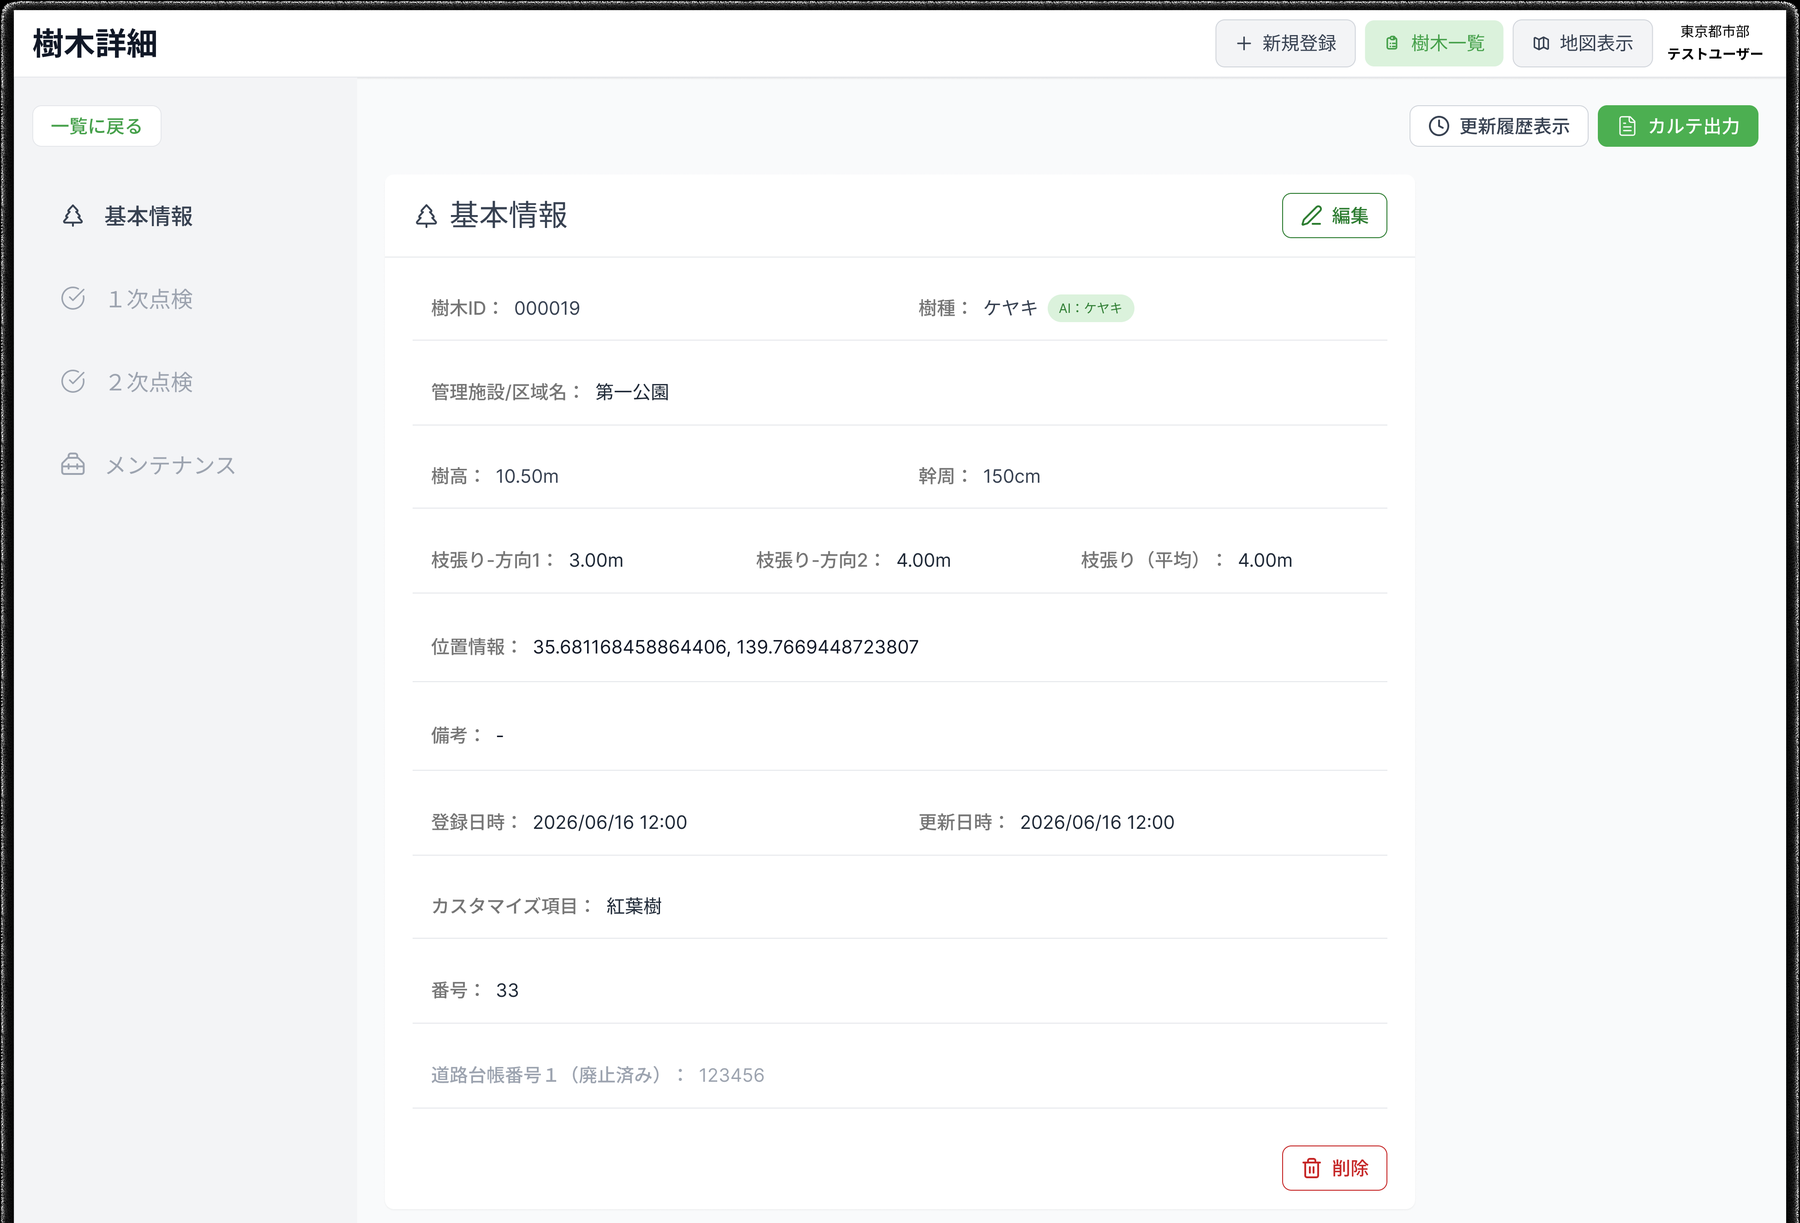
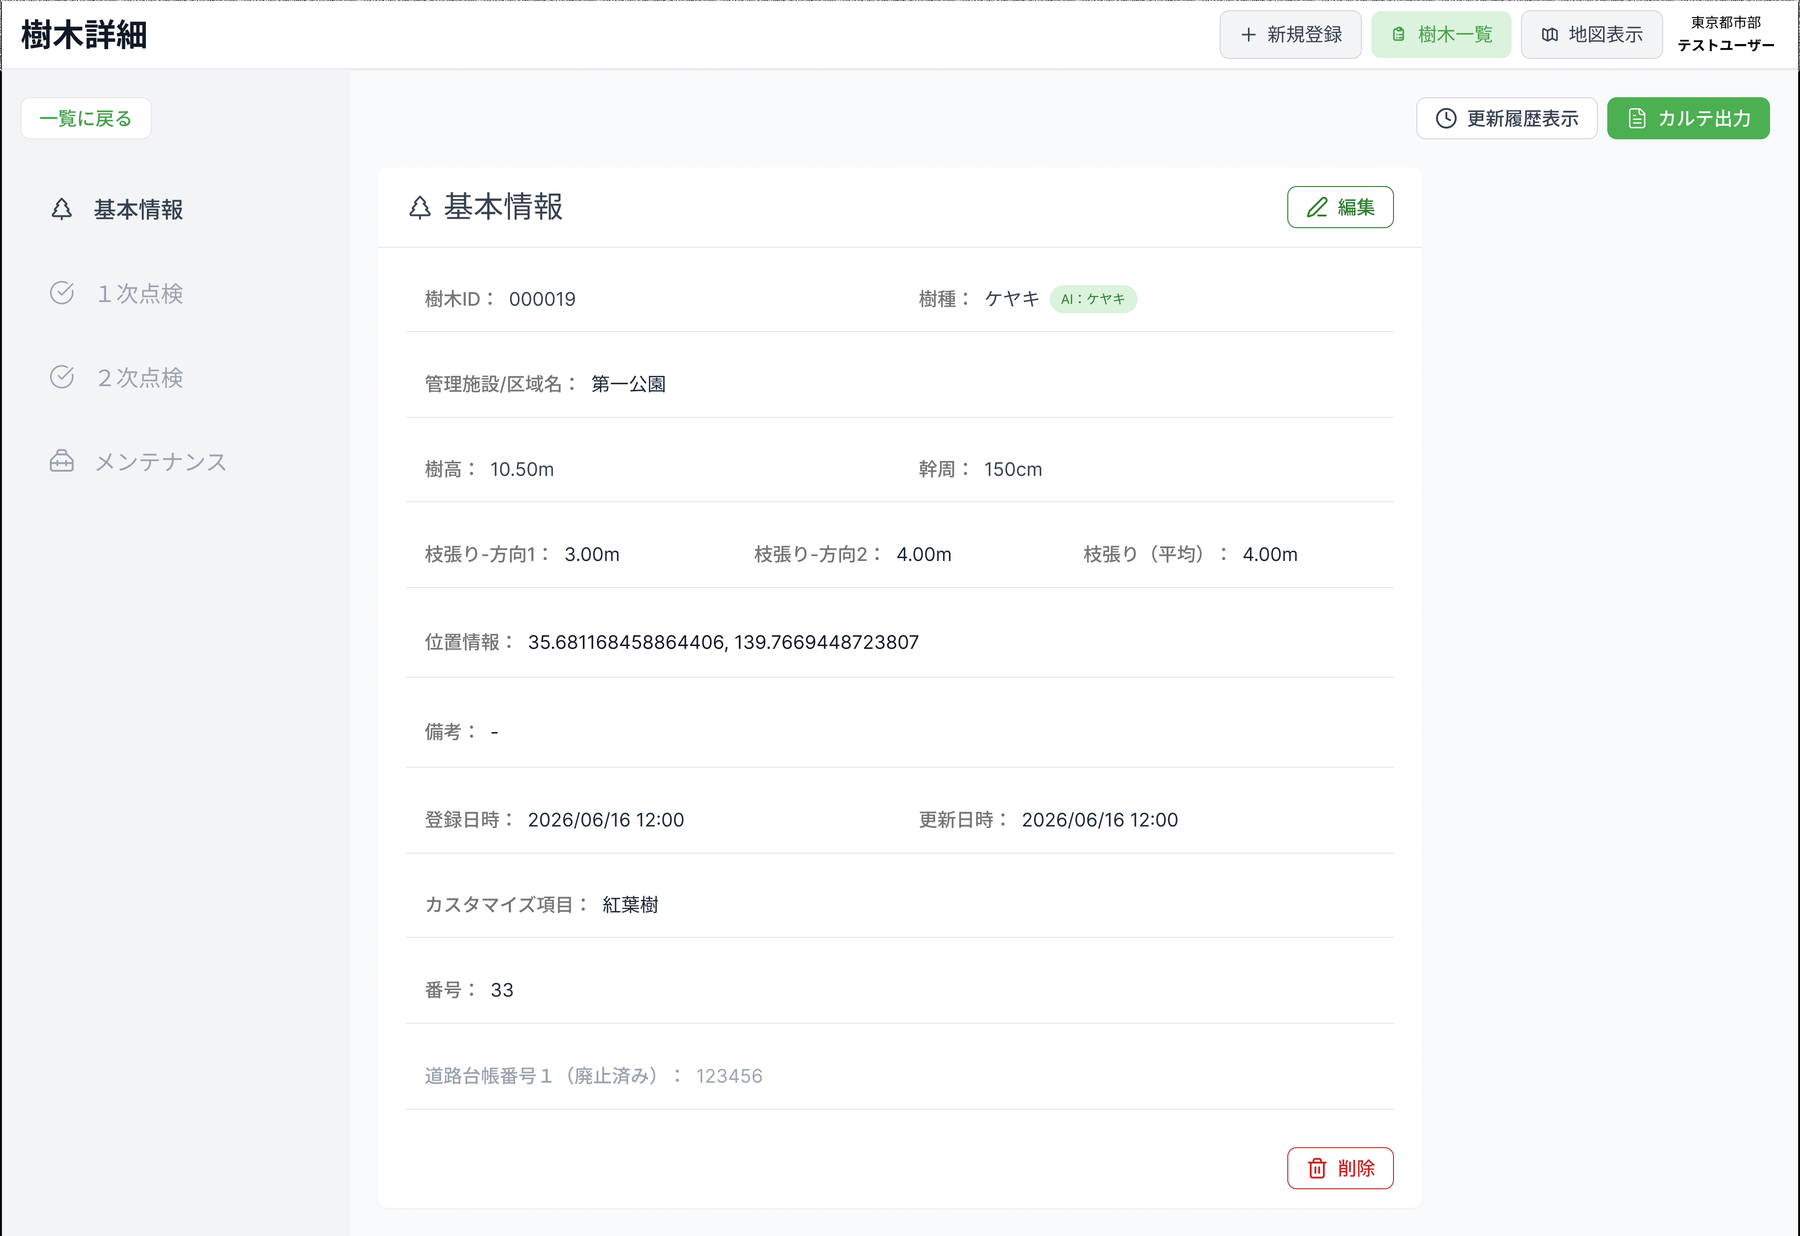
Add update history screen to case01
更新履歴パネル（年ごとの点検・メンテナンス一覧）を追加。
あわせて詳細画面の画像を差し替え、サイト用に最適化。

diff --git a/case01.html b/case01.html
@@ -313,6 +313,10 @@
       <div class="screen-item__img screen-item__img--landscape"><img src="images/case01-detail-after.png" alt="樹木詳細画面 — 左にセクションナビ、基本情報を2〜3項目ずつ横並びに配置し、編集導線をボタンに集約した状態"></div>
       <p class="screen-item__caption">樹木詳細（改修後）— 左にセクションナビと現在位置を追加。基本情報は1項目1行から2〜3項目ずつの横並びに変更し、各項目にあった鉛筆アイコンは「編集」ボタン1つへ集約。削除は誤操作を避けるため右下へ移しました。</p>
     </div>
+    <div class="screen-item">
+      <div class="screen-item__img screen-item__img--landscape"><img src="images/case01-history.png" alt="更新履歴パネル — 一次点検・二次点検・メンテナンスを年ごとにまとめ、判定結果を並記した一覧"></div>
+      <p class="screen-item__caption">更新履歴 — 一次点検・二次点検・メンテナンスを年ごとにまとめ、それぞれの判定結果を並記。同じ樹木が過去にどう診断され、どう手入れされてきたかを、画面を離れずに追えるようにしています。</p>
+    </div>
   </div>
 </section>
 
